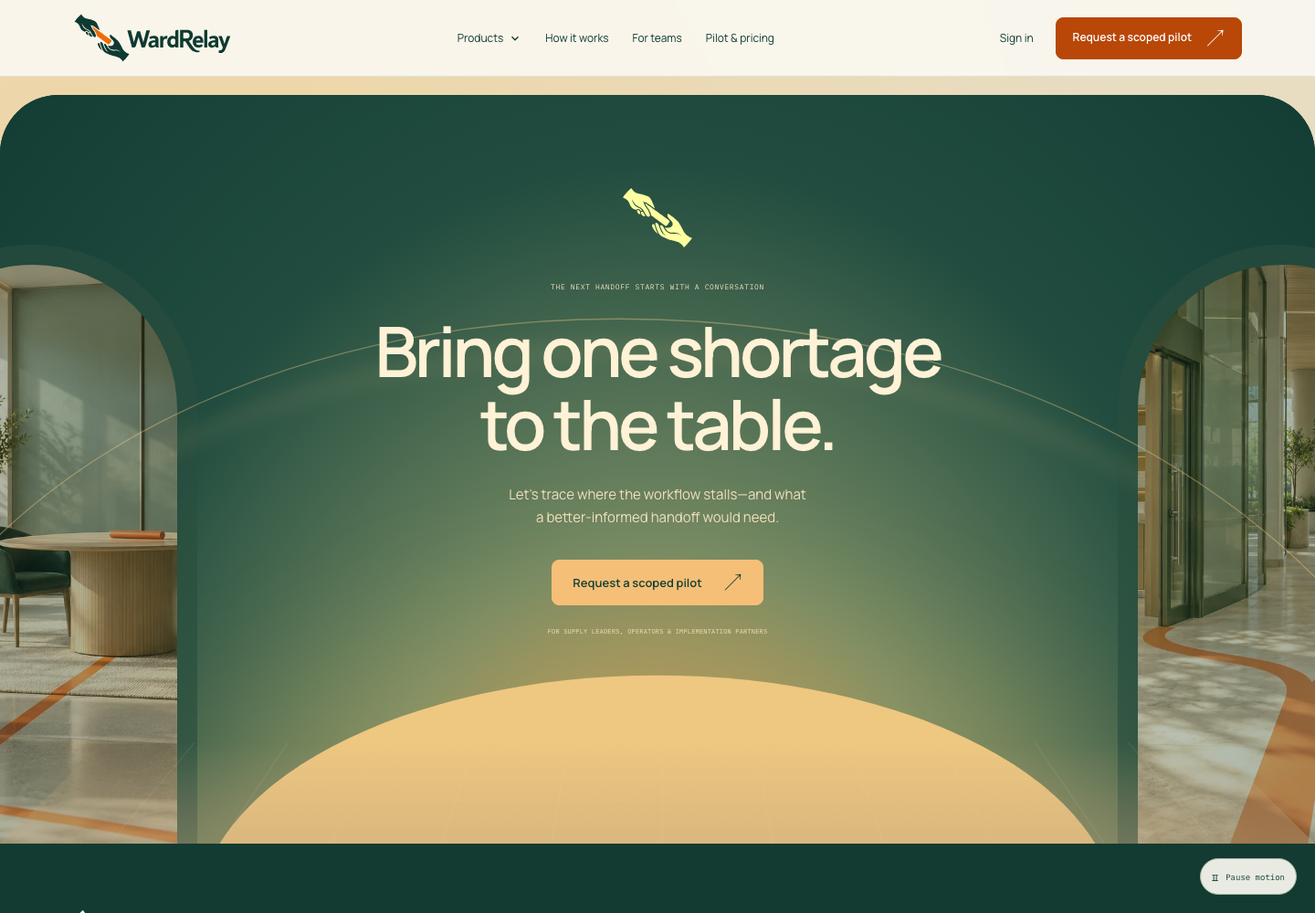
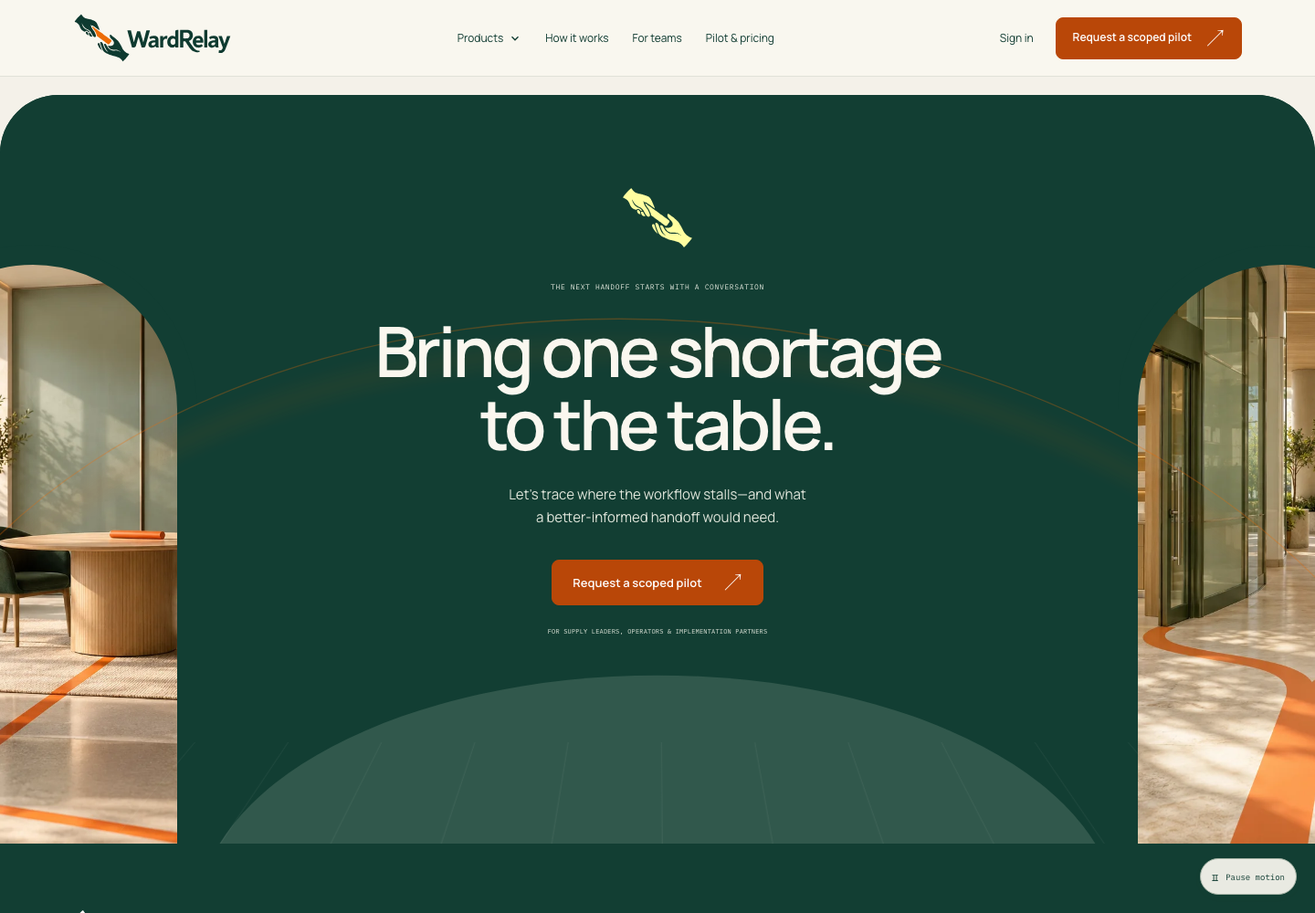
Update Site source

diff --git a/dist/motion-v2.css b/dist/motion-v2.css
@@ -1,9 +1,9 @@
 /* Ward Walk / continuity and choreography revision */
-:root{--journey-color:#f1dfc3;--warm:#f1dfc3;--route:#ce5b16}
+:root{--journey-color:#f4f1e9;--warm:#f4f1e9;--route:#ce5b16}
 body{background:var(--journey-color);transition:background-color 1.2s ease}
 main{position:relative;background:transparent;overflow:clip}
 .site-header{background:#faf7efee;backdrop-filter:blur(16px)}
-.hero{background:radial-gradient(ellipse at 5% 0%,#f7ca79,transparent 65%),#efdfc4;min-height:780px;max-height:1050px}
+.hero{background:radial-gradient(ellipse at 5% 0%,#f7ca79,transparent 65%),#f4f1e9;min-height:780px;max-height:1050px}
 .hero-light,.room-overlay,.governance-shade{display:none!important}
 .hero-architecture{left:52%;inset-block:24px 40px;right:24px;overflow:hidden;border-radius:220px 220px 32px 32px;z-index:0}
 .hero-architecture img{object-position:58% center;animation:none;transform:scale(1.04)}
@@ -11,7 +11,7 @@ main{position:relative;background:transparent;overflow:clip}
 .hero h1{font-size:clamp(52px,5.7vw,86px);line-height:1.035;letter-spacing:-.065em}
 .hero-description{max-width:400px}.hero-note{max-width:320px}
 .hero-route{z-index:1;opacity:.7;pointer-events:none}.hero-route-base{opacity:0}
-.hero-curtain{display:none}.hero-bottom{z-index:4}.hero-disclosure{background:#f7ecd7;bottom:0}
+.hero-curtain{display:none}.hero-bottom{z-index:4}.hero-disclosure{background:#f4f1e9;bottom:0}
 .hero-evidence.relay-console{top:auto;bottom:15%;right:6%;width:360px;padding:0;background:#123e33;color:#fff4dc;border:1px solid #648375;border-radius:18px;box-shadow:0 24px 64px #0c302e33;animation:none;overflow:hidden}
 .console-top,.console-foot{display:flex;align-items:center;justify-content:space-between;gap:10px;font:9px Plex,monospace;padding:17px 20px;color:#c2d4c5}
 .console-top{border-bottom:1px solid #ffffff24}.console-top>span{display:flex;gap:9px;align-items:center}.console-top i{width:6px;height:6px;border-radius:50%;background:#f5b978}.console-top button{background:none;border:0;color:#fff4dc;font:inherit;padding:4px;cursor:pointer}
@@ -22,21 +22,21 @@ main{position:relative;background:transparent;overflow:clip}
 @keyframes caret{50%{opacity:0}}
 .suite-strip{background:transparent;border-color:#a69c7b50;margin-top:0}.handoff-intro{background:transparent;padding-top:130px;padding-bottom:130px}.ambient-wash{background:radial-gradient(ellipse at var(--glow-position,50%) 50%,#d0d8ad80,transparent 65%);opacity:1}
 .handoff-intro:before,.teams:before{content:"";position:absolute;width:140vw;height:100%;border:1px solid #be6d2b42;border-radius:50%;left:-20vw;top:23%;z-index:-1;pointer-events:none;transform:translateY(var(--scenery-y,0px))}
-.statement>span{color:#527054}.fragment-scene{height:250px;max-width:1120px}.fragment{rotate:0deg!important;transform:none!important;width:23%;padding:24px 18px;border-radius:12px;background:#fff6e2;border:1px solid #b5ae8f;box-shadow:0 10px 26px #3549230a;top:70px!important;opacity:1;transition:background .5s,border-color .5s,box-shadow .5s}
-.fragment-source{left:0}.fragment-stock{left:25.66%}.fragment-demand{left:51.33%;right:auto}.fragment-review{left:77%;right:auto}.fragment img{width:25px;height:25px}.fragment span{font-size:13px}.fragment small{font-size:10px}.fragment-scene>svg{top:68px;height:150px;transform:none!important}.fragment-scene>svg path{stroke-width:2;stroke-dasharray:1300;stroke-dashoffset:1300}.fragment.active-evidence{background:#e0e8c9;border-color:#607f54;box-shadow:0 0 0 5px #a4bc7a25}
-.walk{border-radius:0;background:transparent;max-width:none}.walk-stage{border-radius:0;background:#dcc8a7;isolation:isolate}.room-images{left:45%;z-index:-2}.room{object-position:60% center;transition:opacity 1s,transform 1.8s}.walk-thread{z-index:-1;opacity:.65}.walk-content{background:none}.walk-copy{background:#eddfc8;padding:32px;border-radius:16px;max-width:440px;box-shadow:0 16px 40px #193e2910}.walk-copy h2{font-size:clamp(38px,4.1vw,60px)}.walk-copy>p{font-size:15px}.walk-heading{background:#e5d3b5;padding-bottom:18px}.scene-card,.source-ticket,.pilot-scorecard{rotate:0deg!important;transform:none!important}.scene-card{background:#fff9ed;border:1px solid #aeb7a7;box-shadow:0 20px 50px #123e3326}
-.enhanced:not(.motion-off) .walk-panel .scene-card{transform:translateY(24px)!important;transition:transform .75s cubic-bezier(.2,.8,.2,1)}.enhanced:not(.motion-off) .walk-panel.active .scene-card{transform:translateY(0)!important}.walk-bottom{background:linear-gradient(0deg,#decaaa 30%,transparent);padding-top:30px}.walk-copy .step-caption{margin-top:22px}.walk-copy .step-number{margin-bottom:20px}
-.products{background:transparent;padding:0!important;position:relative}.products-stage{padding:70px var(--page);position:relative}.product-scroll-meta{display:flex;justify-content:space-between;align-items:center;gap:12px;font:10px Plex,monospace;margin-bottom:28px}.product-scroll-meta b{font-size:19px;color:var(--action)}.product-scroll-meta a{font-size:10px}.products .section-heading{margin-bottom:28px}.products .section-heading h2{font-size:clamp(30px,3.3vw,48px)}.products .section-heading>p{font-size:13px;max-width:330px}.product-explorer{grid-template-columns:.8fr 1.2fr;gap:7%}.module-tab{padding:16px 12px;min-height:76px}.module-tab b{font-size:20px}.module-tab small{font-size:11px;margin-top:5px}.module-preview{background:#d6e0c8;min-height:440px;padding:28px 32px;overflow:hidden;border:1px solid #a9b99d;border-radius:24px}.module-preview>h3{font-size:32px;margin-bottom:15px}.module-preview>p{font-size:13px}.module-preview-head{margin-bottom:18px}.module-visual{margin-top:20px;min-height:180px}.module-preview-foot{margin-top:20px}.module-preview>.micro{margin-top:16px}.module-tab.active{background:#d6e0c8}.module-preview.changing .module-visual{animation:module-arrival .55s cubic-bezier(.2,.8,.2,1) both}.module-preview.changing .mini-row{animation:module-arrival .6s both}.module-preview.changing .mini-row:nth-child(3){animation-delay:.1s}.module-preview.changing .mini-row:nth-child(4){animation-delay:.2s}
+.statement>span{color:#527054}.fragment-scene{height:250px;max-width:1120px}.fragment{rotate:0deg!important;transform:none!important;width:23%;padding:24px 18px;border-radius:12px;background:#faf8f2;border:1px solid #b5ae8f;box-shadow:0 10px 26px #3549230a;top:70px!important;opacity:1;transition:background .5s,border-color .5s,box-shadow .5s}
+.fragment-source{left:0}.fragment-stock{left:25.66%}.fragment-demand{left:51.33%;right:auto}.fragment-review{left:77%;right:auto}.fragment img{width:25px;height:25px}.fragment span{font-size:13px}.fragment small{font-size:10px}.fragment-scene>svg{top:68px;height:150px;transform:none!important}.fragment-scene>svg path{stroke-width:2;stroke-dasharray:1300;stroke-dashoffset:1300}.fragment.active-evidence{background:#e7e8df;border-color:#607f54;box-shadow:0 0 0 5px #a4bc7a25}
+.walk{border-radius:0;background:transparent;max-width:none}.walk-stage{border-radius:0;background:#f4f1e9;isolation:isolate}.room-images{left:45%;z-index:-2}.room{object-position:60% center;transition:opacity 1s,transform 1.8s}.walk-thread{z-index:-1;opacity:.65}.walk-content{background:none}.walk-copy{background:#f4f1e9;padding:32px;border-radius:16px;max-width:440px;box-shadow:0 16px 40px #193e2910}.walk-copy h2{font-size:clamp(38px,4.1vw,60px)}.walk-copy>p{font-size:15px}.walk-heading{background:#f4f1e9;padding-bottom:18px}.scene-card,.source-ticket,.pilot-scorecard{rotate:0deg!important;transform:none!important}.scene-card{background:#faf8f2;border:1px solid #aeb7a7;box-shadow:0 20px 50px #123e3326}
+.enhanced:not(.motion-off) .walk-panel .scene-card{transform:translateY(24px)!important;transition:transform .75s cubic-bezier(.2,.8,.2,1)}.enhanced:not(.motion-off) .walk-panel.active .scene-card{transform:translateY(0)!important}.walk-bottom{background:linear-gradient(0deg,#f4f1e9 30%,transparent);padding-top:30px}.walk-copy .step-caption{margin-top:22px}.walk-copy .step-number{margin-bottom:20px}
+.products{background:transparent;padding:0!important;position:relative}.products-stage{padding:70px var(--page);position:relative}.product-scroll-meta{display:flex;justify-content:space-between;align-items:center;gap:12px;font:10px Plex,monospace;margin-bottom:28px}.product-scroll-meta b{font-size:19px;color:var(--action)}.product-scroll-meta a{font-size:10px}.products .section-heading{margin-bottom:28px}.products .section-heading h2{font-size:clamp(30px,3.3vw,48px)}.products .section-heading>p{font-size:13px;max-width:330px}.product-explorer{grid-template-columns:.8fr 1.2fr;gap:7%}.module-tab{padding:16px 12px;min-height:76px}.module-tab b{font-size:20px}.module-tab small{font-size:11px;margin-top:5px}.module-preview{background:#e7e8df;min-height:440px;padding:28px 32px;overflow:hidden;border:1px solid #a9b99d;border-radius:24px}.module-preview>h3{font-size:32px;margin-bottom:15px}.module-preview>p{font-size:13px}.module-preview-head{margin-bottom:18px}.module-visual{margin-top:20px;min-height:180px}.module-preview-foot{margin-top:20px}.module-preview>.micro{margin-top:16px}.module-tab.active{background:#e7e8df}.module-preview.changing .module-visual{animation:module-arrival .55s cubic-bezier(.2,.8,.2,1) both}.module-preview.changing .mini-row{animation:module-arrival .6s both}.module-preview.changing .mini-row:nth-child(3){animation-delay:.1s}.module-preview.changing .mini-row:nth-child(4){animation-delay:.2s}
 @keyframes module-arrival{from{opacity:0;transform:translateY(20px)}to{opacity:1;transform:none}}
 @media(min-width:700px) and (min-height:650px){.enhanced:not(.motion-off) .products{height:480vh}.enhanced:not(.motion-off) .products-stage{position:sticky;top:84px;height:calc(100svh - 84px);min-height:620px;padding-top:26px;padding-bottom:24px;display:flex;flex-direction:column;justify-content:center}.enhanced:not(.motion-off) .products .product-scroll-meta{margin-bottom:18px}.enhanced:not(.motion-off) .products .section-heading{margin-bottom:22px}.enhanced:not(.motion-off) .product-explorer{min-height:0}.enhanced:not(.motion-off) .module-preview{min-height:0}.enhanced:not(.motion-off) .module-tab{padding-block:12px;min-height:68px}.enhanced:not(.motion-off) .module-tab small{font-size:10px}.enhanced:not(.motion-off) .module-preview .mini-row{padding-block:12px}.enhanced:not(.motion-off) .module-visual{min-height:150px;margin-top:15px}}
-.demo-section{background:#cfddbd;border-radius:60px 60px 0 0}.demo-halo{display:none}.teams{background:transparent;isolation:isolate;position:relative}.teams:before{top:15%;border-color:#647d4b40}.team-deck{gap:24px;perspective:none}.team-card,.team-card.feature,.team-card:nth-child(3),.enhanced .team-card.reveal.in-view,.enhanced .team-card.feature.reveal.in-view,.enhanced .team-card.reveal.in-view:nth-child(3){rotate:0deg!important;transform:none!important;box-shadow:none;background:#f7efdb;border:1px solid #a8b390}.team-card.feature{background:#d4dfb9!important}.team-card:hover{box-shadow:0 16px 36px #29492c16!important}.team-symbol .orange-stroke{stroke-dasharray:240;stroke-dashoffset:240}.in-view .team-symbol .orange-stroke{animation:draw-route 1.5s .4s forwards}
-.governance{background:#e6d4b6;border-radius:0;min-height:800px}.governance-room{left:45%;width:55%;object-position:62% center}.governance-copy{width:47%;padding:72px var(--page);padding-right:36px;background:#e6d4b6;min-height:800px}.governance-caption{background:#fff3dc;bottom:32px;right:32px}.governance-copy h2{font-size:clamp(40px,4.5vw,65px)}
-.fit-section{background:transparent}.fit-input>span{background:#fff3da;border-color:#b5a984;position:relative;overflow:hidden}.fit-input>span:after{content:"";position:absolute;inset:0;transform:translateX(-110%);background:linear-gradient(90deg,transparent,#dfc58860,transparent)}.fit-flow.in-view .fit-input>span:after{animation:input-scan 4.5s infinite}.fit-flow.in-view .fit-input>span:nth-of-type(2):after{animation-delay:.7s}.fit-flow.in-view .fit-input>span:nth-of-type(3):after{animation-delay:1.4s}.fit-output{background:#dce3c4;border-color:#a3ae86}.fit-connector path{stroke-dasharray:8 8!important;stroke-dashoffset:0!important;animation:flow-packets 2s linear infinite!important}.fit-output .tiny-pill{transition:background .4s}.fit-flow.in-view .tiny-pill{animation:review-breathe 4.5s infinite}.pilot-section{background:#dfd2b8;border-radius:48px}.pilot-scorecard{background:#fff8e8}.faqs{background:transparent}
+.demo-section{background:#f4f1e9;border-radius:60px 60px 0 0}.demo-halo{display:none}.teams{background:transparent;isolation:isolate;position:relative}.teams:before{top:15%;border-color:#647d4b40}.team-deck{gap:24px;perspective:none}.team-card,.team-card.feature,.team-card:nth-child(3),.enhanced .team-card.reveal.in-view,.enhanced .team-card.feature.reveal.in-view,.enhanced .team-card.reveal.in-view:nth-child(3){rotate:0deg!important;transform:none!important;box-shadow:none;background:#faf8f2;border:1px solid #a8b390}.team-card.feature{background:#faf8f2!important}.team-card:hover{box-shadow:0 16px 36px #29492c16!important}.team-symbol .orange-stroke{stroke-dasharray:240;stroke-dashoffset:240}.in-view .team-symbol .orange-stroke{animation:draw-route 1.5s .4s forwards}
+.governance{background:#f4f1e9;border-radius:0;min-height:800px}.governance-room{left:45%;width:55%;object-position:62% center}.governance-copy{width:47%;padding:72px var(--page);padding-right:36px;background:#f4f1e9;min-height:800px}.governance-caption{background:#faf8f2;bottom:32px;right:32px}.governance-copy h2{font-size:clamp(40px,4.5vw,65px)}
+.fit-section{background:transparent}.fit-input>span{background:#faf8f2;border-color:#b5a984;position:relative;overflow:hidden}.fit-input>span:after{content:"";position:absolute;inset:0;transform:translateX(-110%);background:linear-gradient(90deg,transparent,#dfc58860,transparent)}.fit-flow.in-view .fit-input>span:after{animation:input-scan 4.5s infinite}.fit-flow.in-view .fit-input>span:nth-of-type(2):after{animation-delay:.7s}.fit-flow.in-view .fit-input>span:nth-of-type(3):after{animation-delay:1.4s}.fit-output{background:#e7e8df;border-color:#a3ae86}.fit-connector path{stroke-dasharray:8 8!important;stroke-dashoffset:0!important;animation:flow-packets 2s linear infinite!important}.fit-output .tiny-pill{transition:background .4s}.fit-flow.in-view .tiny-pill{animation:review-breathe 4.5s infinite}.pilot-section{background:#f4f1e9;border-radius:48px}.pilot-scorecard{background:#faf8f2}.faqs{background:transparent}
 @keyframes input-scan{0%,15%{transform:translateX(-110%)}55%,100%{transform:translateX(110%)}}@keyframes flow-packets{to{stroke-dashoffset:-32}}@keyframes review-breathe{0%,60%,100%{background:transparent}75%,90%{background:#bad2a0}}@keyframes draw-route{to{stroke-dashoffset:0}}
 .final-cta{min-height:820px;background:#193f35;color:#fff2d6;border-radius:64px 64px 0 0;padding:100px var(--page) 150px}.final-cta h2{font-size:clamp(46px,5.3vw,80px)}.final-cta p,.final-cta>.micro{color:#f2e0bd}.final-cta .cta-symbol{filter:brightness(0) invert(93%) sepia(30%) saturate(500%);position:relative}.cta-landscape{position:absolute;inset:0;z-index:-3;background:radial-gradient(ellipse at 50% 110%,#e1a04d 0%,#748963 32%,#214c3f 65%,#133d34 100%);overflow:hidden}.sky-light{position:absolute;width:70%;height:65%;left:15%;bottom:-22%;border-radius:50%;background:#eec780;box-shadow:0 0 150px 80px #e9bd6833;transform:translateY(var(--cta-rise,0px))}.courtyard-window{position:absolute;width:25%;height:85%;left:-10%;bottom:-5%;border:22px solid #294e3e;border-radius:180px 180px 0 0;background:url('assets/images/review.webp') center/cover;transform:rotate(0deg);opacity:.65}.courtyard-window.second{left:auto;right:-10%;background-image:url('assets/images/junction.webp')}.courtyard-floor{position:absolute;height:160px;bottom:0;left:0;right:0;background:repeating-linear-gradient(90deg,transparent 0 119px,#e9d5b51c 120px 121px),linear-gradient(0deg,#bba17b66,transparent);transform:perspective(500px) rotateX(35deg);transform-origin:bottom}.cta-orbit{inset:12% -5% -10%;z-index:-1}.cta-orbit svg{width:100%;height:100%}.cta-orbit path{stroke:#ffd28a!important;stroke-width:1.2;opacity:.8}.final-cta .button{background:#f5bf78;color:#123e33;border-color:#f5bf78}.final-cta .button:hover{background:#ffe0a8}.site-footer{background:#143b31;color:#f4e7ce}.footer-top h3,.footer-top a,.footer-top button,.footer-bottom button{color:inherit}.footer-brand p,.footer-bottom{color:#c0d1bc}.footer-brand img{filter:brightness(0) invert(94%) sepia(17%) saturate(300%)}
 .motion-off .typing-caret{display:none}.motion-off .relay-row{opacity:1!important;transform:none!important}.motion-off .team-symbol .orange-stroke{stroke-dashoffset:0}.motion-off .fragment-scene path{stroke-dashoffset:0}
 @media(min-width:700px) and (max-width:1099px){.hero{min-height:900px;height:1000px;max-height:none}.hero-copy{max-width:62%;padding:65px 0 0 32px}.hero h1{font-size:62px}.hero-architecture{left:54%;top:25px;right:18px;bottom:30px;border-radius:160px 160px 24px 24px}.hero-evidence.relay-console{right:32px;bottom:13%;width:340px}.hero-description{max-width:340px;font-size:16px}.hero-actions{max-width:350px}.hero-bottom{padding-inline:32px}.hero-disclosure{max-width:150px}.products-stage{padding-inline:32px}.products .section-heading{gap:20px}.products .section-heading>p{max-width:235px;font-size:12px}.product-explorer{gap:24px;grid-template-columns:.8fr 1.2fr}.module-tab{padding:12px 8px;gap:10px}.module-tab b{font-size:17px}.module-tab small{font-size:10px}.module-preview{padding:22px}.module-preview>h3{font-size:26px}.module-preview>p{font-size:12px}.module-preview-head{margin-bottom:12px}.module-preview-foot{gap:10px;flex-wrap:wrap}.module-preview-foot .text-link{font-size:12px}.module-preview .mini-row{padding:10px 8px}.module-preview .mini-row b{font-size:10px}.module-preview .mini-row small{font-size:9px}.module-preview .status{font-size:8px}.products .section-heading h2{font-size:34px}.enhanced:not(.motion-off) .products-stage{top:76px;height:calc(100svh - 76px)}.walk-copy{padding:26px}.walk-panel{gap:28px}.walk-heading{padding-top:24px}.walk-visual{padding:0}.governance-copy{width:49%;padding:55px 32px;min-height:850px}.governance-room{left:49%;width:51%}.governance-copy h2{font-size:44px}.fragment{padding:18px 12px;column-gap:8px}.fragment span{font-size:11px}.fragment small{font-size:8px}.fragment img{width:20px}.team-card{padding:24px}.team-card h3{font-size:25px}}
-@media(max-width:699px){.hero{height:auto;min-height:1190px;max-height:none;padding-bottom:90px}.hero-copy{max-width:none;padding:48px 24px 0}.hero h1{font-size:52px;max-width:360px;margin:24px 0}.hero-description{font-size:16px;max-width:330px}.hero-actions{margin-top:24px;gap:12px}.hero-note{font-size:12px}.hero-architecture{top:590px;left:24px;right:24px;bottom:65px;border-radius:160px 160px 24px 24px}.hero-evidence.relay-console{top:735px;bottom:auto;right:38px;left:38px;width:auto;max-width:none;border-radius:14px}.console-top{padding:12px 16px;font-size:8px}.console-command{font-size:12px;padding:16px;min-height:55px}.relay-row{padding:13px 16px;min-height:66px}.relay-row b{font-size:12px}.relay-row small{font-size:9px}.console-foot{font-size:7px;padding:12px 16px}.hero-route{display:none}.hero-bottom{bottom:20px;left:24px;right:24px;inset-inline:0;padding:0 24px}.hero-disclosure{font-size:7px;max-width:120px}.scroll-cue{font-size:9px}.hero .hero-bottom .scroll-circle{width:28px;height:28px}.suite-strip{padding-top:30px}.handoff-intro{padding:80px 24px}.statement{font-size:36px}.fragment-scene{height:385px;margin-top:35px;display:flex;flex-direction:column;align-items:center;gap:17px}.fragment{position:relative!important;inset:auto!important;width:90%;padding:18px 20px;min-height:76px}.fragment span{font-size:13px}.fragment small{font-size:10px}.fragment-scene>svg{top:0;left:50%;width:2px;height:100%;overflow:visible}.walk-content{padding-inline:24px}.walk-copy{padding:24px;background:#ecddbf;max-width:100%;border-radius:16px}.walk-panel{padding:32px 0;gap:24px}.walk-copy h2{font-size:39px}.walk .room-images{left:0;opacity:1}.walk-stage{background:#dec7a4}.walk-heading{padding:24px}.walk-visual{padding:0}.scene-card{background:#fff6e6}.walk-thread{display:none}.products-stage{padding:70px 24px}.product-scroll-meta{font-size:8px}.product-scroll-meta a{font-size:9px}.products .section-heading h2{font-size:36px}.products .section-heading>p{font-size:14px;max-width:none}.product-explorer{display:block}.module-list{display:flex;overflow-x:auto;gap:8px;border:none;padding-bottom:16px;scrollbar-width:thin}.module-tab{flex:0 0 126px;display:block;border:1px solid #a6b294;border-radius:12px;min-height:91px;padding:12px}.module-tab .module-index{display:block;margin-bottom:10px;font-size:10px!important}.module-tab b{font-size:14px;letter-spacing:-.03em}.module-tab small,.module-tab>i{display:none}.module-preview{margin-top:10px;padding:25px;min-height:500px}.module-preview>h3{font-size:30px}.module-preview>p{font-size:13px}.module-preview .module-visual{min-height:200px}.demo-section{border-radius:32px 32px 0 0}.teams{padding-top:80px}.team-deck{gap:16px}.team-card,.team-card.feature,.team-card:nth-child(3){padding:28px!important}.governance{min-height:1120px;padding-bottom:360px;overflow:hidden}.governance-copy{width:100%;min-height:0;padding:60px 24px;background:#e6d4b6;position:relative;z-index:2}.governance-room{inset:auto 0 0;width:100%;height:450px;object-position:center}.governance-caption{bottom:24px;left:24px;right:24px;padding:20px;background:#fff1d6}.governance-copy h2{font-size:44px}.fit-section{padding-block:80px}.fit-connector{height:100px}.pilot-section{border-radius:32px}.final-cta{min-height:800px;padding:80px 24px 150px;border-radius:40px 40px 0 0}.final-cta h2{font-size:46px}.final-cta .eyebrow{font-size:9px}.final-cta>.micro{font-size:8px;max-width:290px}.courtyard-window{width:30%;left:-20%;height:80%}.courtyard-window.second{right:-20%}.sky-light{width:120%;left:-10%;bottom:-18%;height:50%}.cta-orbit{inset:10% -50% -10%}.site-footer{padding-bottom:80px}}
+@media(max-width:699px){.hero{height:auto;min-height:1190px;max-height:none;padding-bottom:90px}.hero-copy{max-width:none;padding:48px 24px 0}.hero h1{font-size:52px;max-width:360px;margin:24px 0}.hero-description{font-size:16px;max-width:330px}.hero-actions{margin-top:24px;gap:12px}.hero-note{font-size:12px}.hero-architecture{top:590px;left:24px;right:24px;bottom:65px;border-radius:160px 160px 24px 24px}.hero-evidence.relay-console{top:735px;bottom:auto;right:38px;left:38px;width:auto;max-width:none;border-radius:14px}.console-top{padding:12px 16px;font-size:8px}.console-command{font-size:12px;padding:16px;min-height:55px}.relay-row{padding:13px 16px;min-height:66px}.relay-row b{font-size:12px}.relay-row small{font-size:9px}.console-foot{font-size:7px;padding:12px 16px}.hero-route{display:none}.hero-bottom{bottom:20px;left:24px;right:24px;inset-inline:0;padding:0 24px}.hero-disclosure{font-size:7px;max-width:120px}.scroll-cue{font-size:9px}.hero .hero-bottom .scroll-circle{width:28px;height:28px}.suite-strip{padding-top:30px}.handoff-intro{padding:80px 24px}.statement{font-size:36px}.fragment-scene{height:385px;margin-top:35px;display:flex;flex-direction:column;align-items:center;gap:17px}.fragment{position:relative!important;inset:auto!important;width:90%;padding:18px 20px;min-height:76px}.fragment span{font-size:13px}.fragment small{font-size:10px}.fragment-scene>svg{top:0;left:50%;width:2px;height:100%;overflow:visible}.walk-content{padding-inline:24px}.walk-copy{padding:24px;background:#f4f1e9;max-width:100%;border-radius:16px}.walk-panel{padding:32px 0;gap:24px}.walk-copy h2{font-size:39px}.walk .room-images{left:0;opacity:1}.walk-stage{background:#f4f1e9}.walk-heading{padding:24px}.walk-visual{padding:0}.scene-card{background:#faf8f2}.walk-thread{display:none}.products-stage{padding:70px 24px}.product-scroll-meta{font-size:8px}.product-scroll-meta a{font-size:9px}.products .section-heading h2{font-size:36px}.products .section-heading>p{font-size:14px;max-width:none}.product-explorer{display:block}.module-list{display:flex;overflow-x:auto;gap:8px;border:none;padding-bottom:16px;scrollbar-width:thin}.module-tab{flex:0 0 126px;display:block;border:1px solid #a6b294;border-radius:12px;min-height:91px;padding:12px}.module-tab .module-index{display:block;margin-bottom:10px;font-size:10px!important}.module-tab b{font-size:14px;letter-spacing:-.03em}.module-tab small,.module-tab>i{display:none}.module-preview{margin-top:10px;padding:25px;min-height:500px}.module-preview>h3{font-size:30px}.module-preview>p{font-size:13px}.module-preview .module-visual{min-height:200px}.demo-section{border-radius:32px 32px 0 0}.teams{padding-top:80px}.team-deck{gap:16px}.team-card,.team-card.feature,.team-card:nth-child(3){padding:28px!important}.governance{min-height:1120px;padding-bottom:360px;overflow:hidden}.governance-copy{width:100%;min-height:0;padding:60px 24px;background:#f4f1e9;position:relative;z-index:2}.governance-room{inset:auto 0 0;width:100%;height:450px;object-position:center}.governance-caption{bottom:24px;left:24px;right:24px;padding:20px;background:#faf8f2}.governance-copy h2{font-size:44px}.fit-section{padding-block:80px}.fit-connector{height:100px}.pilot-section{border-radius:32px}.final-cta{min-height:800px;padding:80px 24px 150px;border-radius:40px 40px 0 0}.final-cta h2{font-size:46px}.final-cta .eyebrow{font-size:9px}.final-cta>.micro{font-size:8px;max-width:290px}.courtyard-window{width:30%;left:-20%;height:80%}.courtyard-window.second{right:-20%}.sky-light{width:120%;left:-10%;bottom:-18%;height:50%}.cta-orbit{inset:10% -50% -10%}.site-footer{padding-bottom:80px}}
 @media(prefers-reduced-motion:reduce){.typing-caret{display:none}.relay-row{opacity:1!important;transform:none!important}.team-symbol .orange-stroke{stroke-dashoffset:0}.fit-connector path{animation:none!important}.hero-architecture img{transform:none}}
 .sr-only{position:absolute!important;width:1px!important;height:1px!important;padding:0!important;margin:-1px!important;overflow:hidden!important;clip:rect(0,0,0,0)!important;white-space:nowrap!important;border:0!important}
 @media(min-width:700px) and (min-height:650px){
@@ -108,3 +108,30 @@ main{background-image:radial-gradient(ellipse at 12% 20%,#f8cc7866,transparent 5
 /* Keep the rising horizon below the CTA copy at every scroll position. */
 .sky-light{bottom:-48%}
 @media(max-width:699px){.sky-light{bottom:-40%}}
+
+/* Palette refinement: a single ivory environment, evergreen ink, relay-orange accents. */
+:root{--journey-color:#f4f1e9;--warm:#f4f1e9}
+body{background:#f4f1e9;transition:none}
+main,.hero{background:#f4f1e9;background-image:none}
+.ambient-wash{background:none}
+.handoff-intro,.products,.teams,.fit-section,.faqs,.suite-strip{background:transparent}
+.hero .button.secondary{background:transparent}
+.statement>span{color:#52665d}
+.walk-bottom{background:linear-gradient(0deg,#f4f1e9 30%,transparent)}
+.fragment,.scene-card,.team-card,.pilot-scorecard,.fit-input>span{border-color:#c7cdc3}
+.fragment.active-evidence{background:#e7e8df;border-color:#6f8177;box-shadow:0 0 0 4px #0e3a3008}
+.module-tab.active,.module-preview,.fit-output{background:#e7e8df;border-color:#c7cdc3}
+.team-card.feature{background:#faf8f2!important}
+.handoff-intro:before,.teams:before{border-color:#0e3a301c}
+.final-cta,.cta-landscape,.site-footer{background:#123e33}
+.sky-light{background:#31584c;box-shadow:none}
+.courtyard-window{border-color:#123e33;opacity:1}
+.courtyard-floor{background:repeating-linear-gradient(90deg,transparent 0 119px,#faf7ef0c 120px 121px)}
+.final-cta p,.final-cta>.micro{color:#e0e6db}
+.final-cta h2{color:#faf7ef}
+.cta-orbit path{stroke:#ed6c06!important;opacity:.65}
+.final-cta .button{background:#b94708;border-color:#b94708;color:#fff}
+.final-cta .button:hover{background:#973c09}
+.cta-symbol,.footer-brand img{filter:brightness(0) invert(96%)}
+.console-command,.relay-check{color:#f2bc90}
+.console-top i{background:#ed6c06}

diff --git a/dist/motion-v2.js b/dist/motion-v2.js
@@ -88,12 +88,6 @@
   }, { threshold: .35 }); evidenceObserver.observe(evidence);
   const sources = document.querySelector('.fit-flow');
   new IntersectionObserver(entries => sources.classList.toggle('offscreen', !entries[0].isIntersecting)).observe(sources);
-  const chapters = [
-    ['#top',[241,223,195]],['#the-handoff',[231,220,182]],
-    ['#how-it-works',[226,208,175]],['#products',[213,224,192]],
-    ['#demo',[207,221,189]],['#teams',[222,225,191]],
-    ['#governance',[230,212,182]],['#fit',[235,218,184]],['#pilot',[223,210,184]],['#faq',[232,220,193]]
-  ].map(([selector,color]) => ({ el: document.querySelector(selector), color })).filter(x => x.el);
   function renderJourney(now = performance.now()) {
     scheduled = false;
     const viewport = innerHeight, middle = viewport * .5;
@@ -107,15 +101,6 @@
       }
     }
     if (!isStill()) {
-      let color = chapters[0].color;
-      for (let i = 1; i < chapters.length; i++) {
-        const y = chapters[i].el.getBoundingClientRect().top;
-        if (y < viewport) {
-          const t = clamp((viewport - y) / (viewport * .85));
-          color = chapters[i-1].color.map((v,k) => Math.round(v + (chapters[i].color[k] - v) * t));
-        }
-      }
-      document.body.style.setProperty('--journey-color', `rgb(${color.join(',')})`);
       document.querySelectorAll('.handoff-intro,.teams').forEach(el => {
         const p = clamp((viewport - el.getBoundingClientRect().top) / (viewport + el.offsetHeight));
         el.style.setProperty('--scenery-y', `${(p - .5) * 90}px`);
